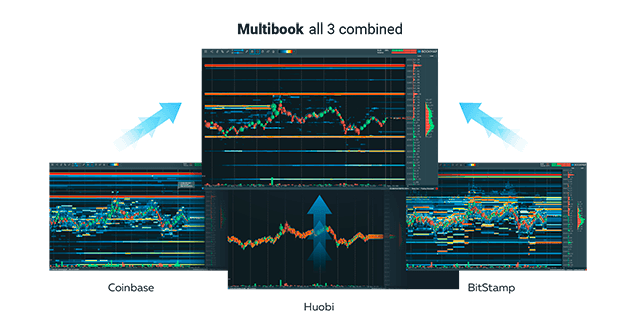
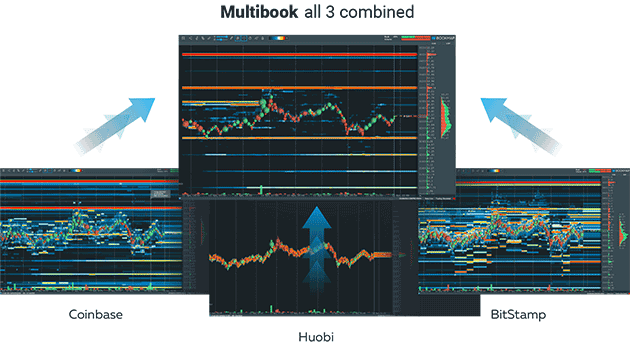
rev 2 new crypto

diff --git a/src/components/Layout/Crypto/CryptoSection3MultiBook.tsx b/src/components/Layout/Crypto/CryptoSection3MultiBook.tsx
@@ -75,7 +75,7 @@ export default function CryptoSection3MultiBook() {
               <div>
                 <ul>
                   <li>See market liquidity and traded volume</li>
-                  <li>View total volume delta across</li>
+                  <li>View volume delta across multiple instruments / exchanges</li>
                   <li>Analyze Best Bid and Offer</li>
                   <li>Build your own synthetic instrument</li>
                 </ul>
@@ -97,7 +97,7 @@ export default function CryptoSection3MultiBook() {
                   src={'/static/crypto/s3/pic.png'}
                   alt={'multibook'}
                   width={636}
-                  height={335}
+                  height={350}
                   layout="intrinsic"
                   className={classes.pic}
                 />

diff --git a/src/components/Layout/Crypto/CryptoSection5Content.tsx b/src/components/Layout/Crypto/CryptoSection5Content.tsx
@@ -45,7 +45,7 @@ export const text: { [index: string]: any } = {
   r11: 'Advanced Education',
   r12: (
     <Fragment>
-      Multibook: Exclusive to Digital+ Subscribers
+      <b>Multibook: Exclusive to Digital+ Subscribers</b>
       <Tooltip title={tooltipText}>
         <ContactSupportIcon style={{ position: 'absolute', marginLeft: '0px ' }} />
       </Tooltip>

diff --git a/src/components/Layout/Crypto/CryptoSection4Content.tsx b/src/components/Layout/Crypto/CryptoSection4Content.tsx
@@ -2,7 +2,7 @@ export const text = {
   h1: 'Get started in three simple steps',
   s1: {
     lbl: 'Get Bookmap Digital+',
-    txt: 'Register, install and connect Bookmap to compatible crypto exchange',
+    txt: 'Register, install and connect Bookmap to a compatible crypto exchange',
   },
   s2: {
     lbl: 'Get Multibook',

diff --git a/src/components/Layout/Crypto/CryptoSection1Features.tsx b/src/components/Layout/Crypto/CryptoSection1Features.tsx
@@ -47,6 +47,9 @@ const useStyles = makeStyles((theme) => ({
     '&:hover': {
       background: 'none',
     },
+    '& span': {
+      fontSize: '1.1428rem',
+    },
     [theme.breakpoints.down('md')]: {
       width: '100%',
     },
